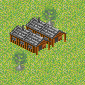
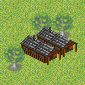
Novas construções
commit de mudanças na interface da construção, e inserindo novos
gráficos de construções

diff --git a/engine/data/edificios_data.php b/engine/data/edificios_data.php
@@ -15,6 +15,30 @@ $edificios_data = array(
 		"custo_madeira" => "1200",
 		"tempo_construcao" => "40",
 		"atributo" => "1"
+	),
+		array(
+		"id" => "2",
+		"edificio_nome" => "Madereira",
+		"edificio_descricao" => "Área com abundância de árvores, local perfeito para explorar a madeira.",
+		"custo_madeira" => "200",
+		"tempo_construcao" => "15",
+		"atributo" => "1"
+	),
+		array(
+		"id" => "3",
+		"edificio_nome" => "Fazenda",
+		"edificio_descricao" => "Produção de comida é necessária para manter sua população alimentada",
+		"custo_madeira" => "500",
+		"tempo_construcao" => "25",
+		"atributo" => "1"
+	),
+		array(
+		"id" => "4",
+		"edificio_nome" => "Quartel",
+		"edificio_descricao" => "Aqui você pode treinar sua população e transforma-la em bravos guerreiros, lembrando que militares não pagam impostos",
+		"custo_madeira" => "1200",
+		"tempo_construcao" => "40",
+		"atributo" => "1"
 	)
 );
 

diff --git a/construir.php b/construir.php
@@ -11,6 +11,7 @@ endif;
 
 foreach($edificios_data as $edificio):
 		echo "<div style=\"border: 1px #ccc solid;\">";
+		echo "<div style=\"float:left; height:55x; width:65px;\"><img src='img/e{$edificio["id"]}.png' height='55px' width='55px' style='float: left;margin: 0;padding:0;'  ></div>";
 		echo "<div style=\"border-bottom: 1px #ccc solid;\">{$edificio["edificio_nome"]}</div>";
 		echo "<div>{$edificio["edificio_descricao"]}</div>";
 		if($construcoes->checarSeExisteEd($_SESSION['aid'],$edificio["id"]) == "existe"):
